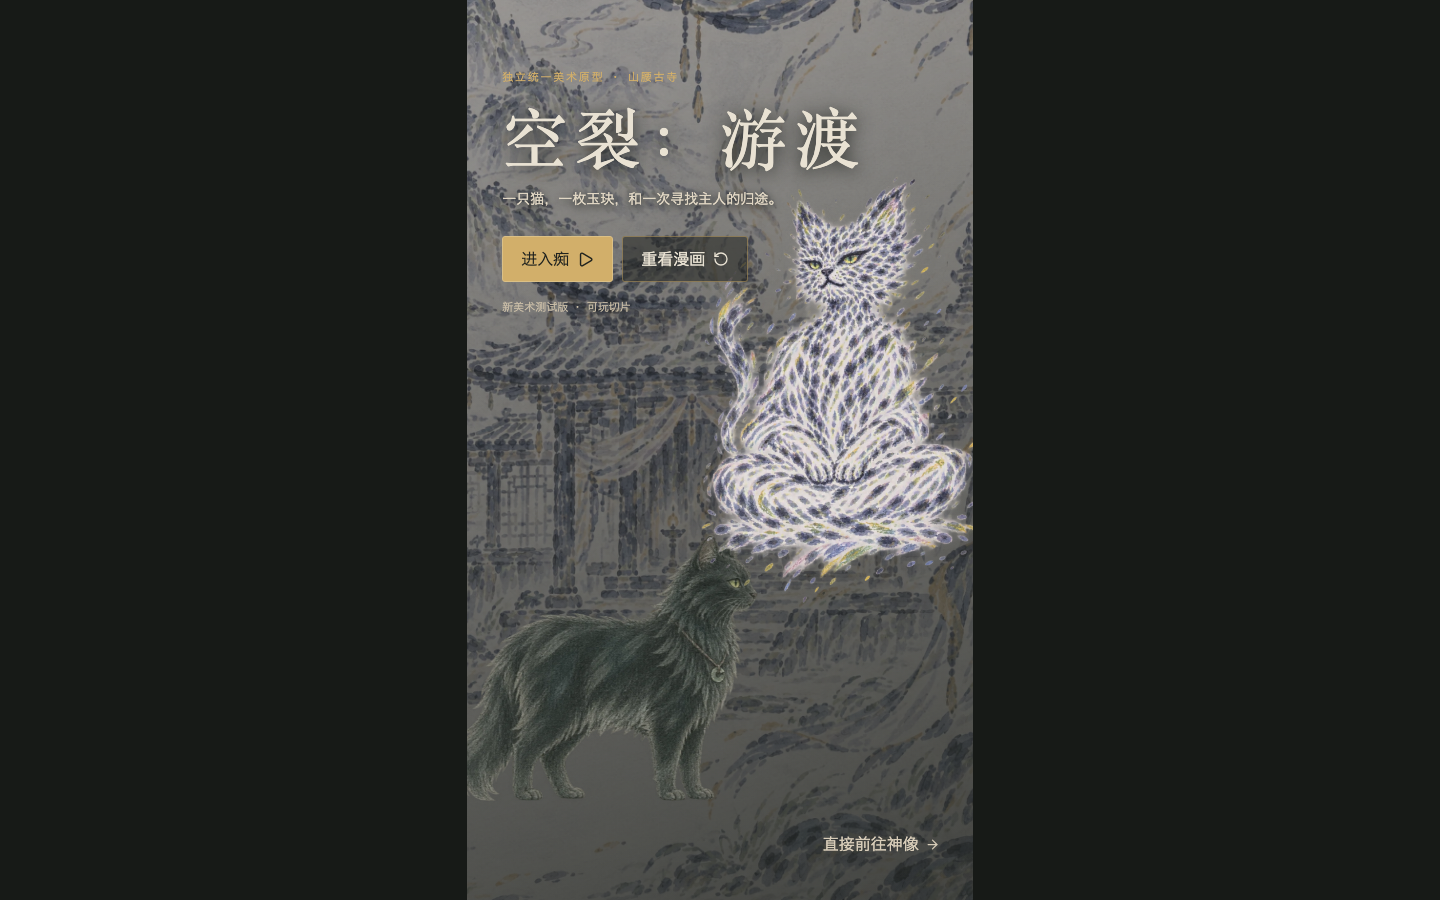
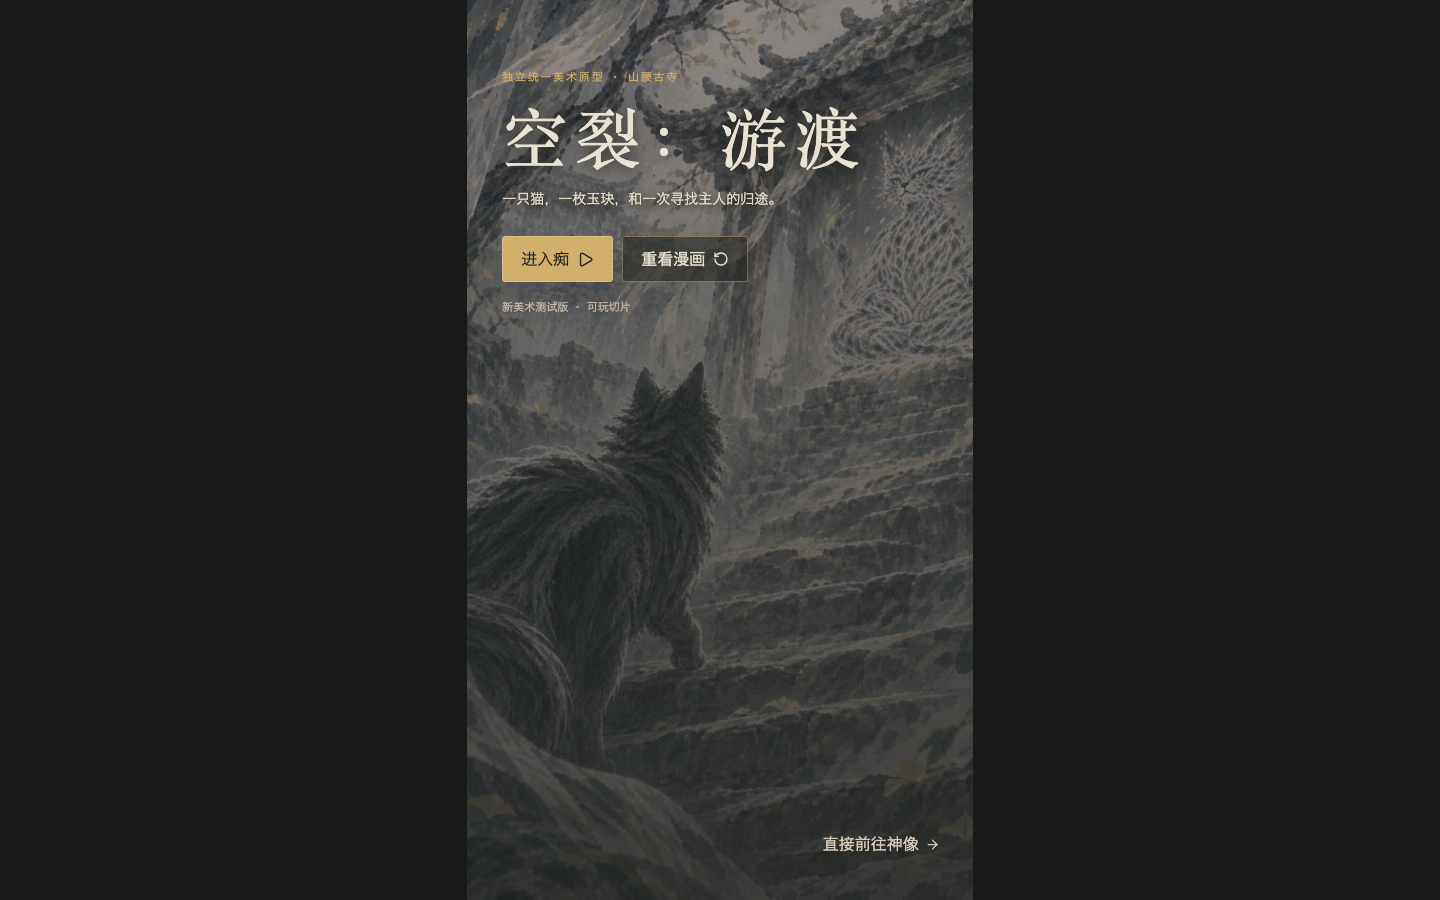
feat: add cinematic scenes and clear chi onboarding

Changed region(s): [[0.3125, 0.0, 0.6875, 1.0], [0.5938, 0.9956, 0.6562, 1.0]]

diff --git a/app/src/art-reboot/styles.css b/app/src/art-reboot/styles.css
@@ -11,7 +11,7 @@ button:focus-visible { outline: 2px solid #d2af6a; outline-offset: 3px; }
 .reboot-text-link { display: inline-flex; align-items: center; gap: 6px; padding: 8px; color: #d8cdb9; background: transparent; border: 0; cursor: pointer; }
 
 .reboot-title { position: relative; width: min(100vw, calc(100dvh * 9 / 16)); height: min(100dvh, calc(100vw * 16 / 9)); overflow: hidden; isolation: isolate; background: #5d665f; }
-.reboot-title-scene { position: absolute; inset: -4%; z-index: -1; background: url('/assets/art-reboot/temple.webp') center / cover; filter: saturate(.78) brightness(.68); animation: reboot-scene-drift 18s steps(4, end) infinite alternate; }
+.reboot-title-scene { position: absolute; inset: -4%; z-index: -1; width: 108%; height: 108%; object-fit: cover; filter: saturate(.78) brightness(.68); animation: reboot-scene-drift 18s steps(4, end) infinite alternate; }
 .reboot-title::after { content: ''; position: absolute; inset: 0; z-index: -1; background: linear-gradient(165deg, rgba(32, 35, 31, .08), rgba(32, 35, 31, .72)); pointer-events: none; }
 .reboot-title-cat { position: absolute; left: -4%; bottom: -2%; width: 64%; pointer-events: none; animation: reboot-breathe 5s steps(3, end) infinite; }
 .reboot-title-cat img, .reboot-title-statue img { display: block; width: 100%; }
@@ -57,7 +57,7 @@ button:focus-visible { outline: 2px solid #d2af6a; outline-offset: 3px; }
 
 .reboot-chi { position: relative; width: min(100vw, calc(100dvh * 9 / 16)); height: min(100dvh, calc(100vw * 16 / 9)); overflow: hidden; isolation: isolate; background: #667068; }
 .reboot-chi-scene, .reboot-chi-atmosphere { position: absolute; inset: 0; pointer-events: none; }
-.reboot-chi-scene { inset: -4%; background: url('/assets/art-reboot/temple.webp') center / cover; filter: grayscale(.82) brightness(.72); transition: filter 1.2s ease; animation: reboot-scene-drift 20s steps(4, end) infinite alternate; }
+.reboot-chi-scene { inset: -4%; width: 108%; height: 108%; object-fit: cover; filter: grayscale(.82) brightness(.72); transition: filter 1.2s ease; animation: reboot-scene-drift 20s steps(4, end) infinite alternate; }
 .reboot-phase-inner .reboot-chi-scene, .reboot-phase-complete .reboot-chi-scene { filter: grayscale(.18) saturate(.88) brightness(.7); }
 .reboot-phase-complete .reboot-chi-scene { filter: grayscale(0) saturate(1.05) brightness(.8); }
 .reboot-chi-atmosphere { z-index: 1; background: linear-gradient(160deg, rgba(233, 226, 211, .04), rgba(32, 35, 31, .14) 48%, rgba(32, 35, 31, .62)); }
@@ -71,11 +71,12 @@ button:focus-visible { outline: 2px solid #d2af6a; outline-offset: 3px; }
 .reboot-ui-wide { width: 68px; }
 .reboot-you { position: absolute; z-index: 4; left: -4%; bottom: -3%; width: 63%; pointer-events: none; animation: reboot-breathe 5s steps(3, end) infinite; }
 .reboot-you img { display: block; width: 100%; }
-.reboot-statue { position: absolute; z-index: 6; right: -4%; top: 17%; width: 62%; padding: 0; background: transparent; border: 0; cursor: pointer; animation: reboot-statue-breathe 5.5s steps(3, end) infinite; }
-.reboot-statue img { display: block; width: 100%; filter: drop-shadow(0 0 16px rgba(210, 175, 106, .2)); }
-.reboot-statue span { position: absolute; right: 15%; bottom: 5%; padding: 6px 9px; color: #e9e2d3; background: rgba(32, 35, 31, .76); border-left: 2px solid #d2af6a; font-size: 11px; letter-spacing: .1em; }
+.reboot-statue { position: absolute; z-index: 6; right: 3%; top: 19%; width: 42%; height: 36%; padding: 0; background: transparent; border: 0; cursor: pointer; }
+.reboot-statue::before { content: ''; position: absolute; inset: 12% 8% 18%; border: 1px solid rgba(210, 175, 106, .58); border-radius: 48% 52% 44% 56%; animation: reboot-statue-ring 2.8s steps(4, end) infinite; }
+.reboot-statue span { position: absolute; right: 12%; bottom: 2%; padding: 6px 9px; color: #e9e2d3; background: rgba(32, 35, 31, .76); border-left: 2px solid #d2af6a; font-size: 11px; letter-spacing: .1em; }
+@keyframes reboot-statue-ring { from { opacity: .72; transform: scale(.88); } to { opacity: 0; transform: scale(1.16); } }
 .reboot-transition { position: absolute; z-index: 15; left: 50%; top: 31%; display: grid; justify-items: center; transform: translateX(-50%); }
-.reboot-transition img { width: 130px; animation: reboot-transition-statue 1.25s steps(3, end) both; }
+.reboot-transition i { width: 92px; height: 92px; border: 1px solid #d2af6a; border-radius: 48% 52% 46% 54%; box-shadow: 0 0 22px rgba(210, 175, 106, .28); animation: reboot-transition-statue 1.25s steps(3, end) both; }
 .reboot-transition span { margin-top: 12px; font: 500 18px 'Songti SC', serif; letter-spacing: .18em; }
 @keyframes reboot-transition-statue { from { opacity: 0; transform: scale(.7); filter: blur(8px); } to { opacity: 1; transform: scale(1); filter: blur(0); } }
 .reboot-chi .puzzle-canvas { position: absolute; inset: 0; z-index: 6; width: 100%; height: 100%; touch-action: none; cursor: crosshair; }
@@ -84,7 +85,11 @@ button:focus-visible { outline: 2px solid #d2af6a; outline-offset: 3px; }
 .reboot-lamp img { display: block; width: 100%; }
 .reboot-lamp.is-out { opacity: .13; filter: grayscale(1); pointer-events: none; }
 @keyframes reboot-lamp-sway { 50% { margin-top: -7px; transform: rotate(1.5deg); } }
-.reboot-progress { position: absolute; z-index: 12; left: 4%; top: 15%; display: flex; align-items: center; gap: 7px; color: #e9e2d3; font-size: 11px; }
+.reboot-objective { position: absolute; z-index: 12; left: 4%; top: 12%; max-width: 70%; padding: 7px 10px; background: rgba(32, 35, 31, .58); border-left: 2px solid #d2af6a; }
+.reboot-objective > span { color: #d2af6a; font-size: 10px; letter-spacing: .16em; }
+.reboot-objective p { margin: 3px 0 0; color: #e9e2d3; font-size: 12px; line-height: 1.5; }
+.reboot-objective small { display: block; margin-top: 4px; color: #c9bdab; font-size: 10px; }
+.reboot-progress { position: absolute; z-index: 12; left: 4%; top: 21%; display: flex; align-items: center; gap: 7px; color: #e9e2d3; font-size: 11px; }
 .reboot-progress i { width: 8px; height: 8px; border: 1px solid #d2af6a; border-radius: 50%; }
 .reboot-progress i.is-found { background: #d2af6a; box-shadow: 0 0 8px rgba(210, 175, 106, .75); }
 .reboot-progress strong { color: #d2af6a; font-weight: 400; }

diff --git a/app/src/art-reboot/RebootComic.tsx b/app/src/art-reboot/RebootComic.tsx
@@ -4,10 +4,10 @@ import { ArrowRight, SkipForward } from 'lucide-react'
 type Props = { onComplete: () => void }
 
 const PANELS = [
-  { kicker: '01 · 空裂之后', text: '城市还在，颜色却先离开了。' },
-  { kicker: '02 · 出城', text: '游只带上一枚玉玦。' },
-  { kicker: '03 · 归途', text: '它要回卦山，寻找主人。' },
-  { kicker: '04 · 入山', text: '山把回答藏起来了。' },
+  { kicker: '01 · 世界', text: '空裂之后，城市与人都被情绪隔开。' },
+  { kicker: '02 · 游', text: '主人说不出的情绪，留在了这只猫身上。' },
+  { kicker: '03 · 归途', text: '游沿着玉玦的回应回卦山，寻找主人。' },
+  { kicker: '04 · 痴', text: '先看清三个“痴”，让古寺复色，才能继续向前。' },
 ]
 
 export default function RebootComic({ onComplete }: Props) {
@@ -25,10 +25,7 @@ export default function RebootComic({ onComplete }: Props) {
             return (
               <article key={panel.kicker} className={`comic-panel comic-panel-${index} ${visible ? 'is-visible' : ''}`} aria-hidden={!visible}>
                 <div className="comic-panel-art">
-                  {index < 3 ? <img className="comic-city" src="./assets/art-reboot/city.webp" alt="位面城与出城道路" /> : <img className="comic-temple" src="./assets/art-reboot/temple.webp" alt="山腰古寺" />}
-                  {index === 1 && <img className="comic-you" src="./assets/art-reboot/you.webp" alt="自然猫游" />}
-                  {index === 2 && <div className="comic-route"><i /><span>位面城</span><span>卦山</span></div>}
-                  {index === 3 && <img className="comic-statue" src="./assets/art-reboot/statue.webp" alt="猫神像" />}
+                  <img className={`comic-shot comic-shot-${index}`} src={`./assets/art-reboot/cinematic/comic-0${index + 1}.webp`} alt={panel.text} />
                 </div>
                 <div className="comic-caption"><span>{panel.kicker}</span><p>{panel.text}</p></div>
               </article>

diff --git a/app/src/art-reboot/ArtRebootApp.tsx b/app/src/art-reboot/ArtRebootApp.tsx
@@ -14,9 +14,7 @@ export default function ArtRebootApp() {
   return (
     <main className="reboot-shell">
       <section className="reboot-title" aria-label="空裂游渡开始界面">
-        <div className="reboot-title-scene" />
-        <div className="reboot-title-cat"><img src="./assets/art-reboot/you.webp" alt="颈挂玉玦的自然猫游" /></div>
-        <div className="reboot-title-statue"><img src="./assets/art-reboot/statue.webp" alt="古老猫神像" /></div>
+        <img className="reboot-title-scene" src="./assets/art-reboot/cinematic/scene-outer.webp" alt="游在低位斜侧的石阶上望向神龛中的猫神像" />
         <div className="reboot-title-copy">
           <span className="reboot-kicker">独立统一美术原型 · 山腰古寺</span>
           <h1>空裂：游渡</h1>

diff --git a/tools/prepare_art_reboot_assets.py b/tools/prepare_art_reboot_assets.py
@@ -46,6 +46,18 @@ for row, suffix in enumerate(['outer', 'inner']):
         icon.save(target, 'WEBP', quality=90, method=6)
         manifest['assets'][f'ui-{name}-{suffix}'] = {'source': 'ui_sheet_v1', 'cell': [column, row], 'outputSize': icon.size, 'bytes': target.stat().st_size}
 
+cinematic_out = OUT / 'cinematic'
+cinematic_out.mkdir(exist_ok=True)
+for key in ['scene-outer', 'scene-inner', 'scene-complete', 'comic-01', 'comic-02', 'comic-03', 'comic-04']:
+    source = CANDIDATES / 'comparisons' / f'gpt-{key}-ink-v1.png'
+    if not source.exists():
+        raise FileNotFoundError(source)
+    image = Image.open(source).convert('RGBA')
+    image.thumbnail((1920, 1920), Image.Resampling.LANCZOS)
+    target = cinematic_out / f'{key}.webp'
+    image.save(target, 'WEBP', quality=88, method=6)
+    manifest['assets'][key] = {'source': source.name, 'outputSize': image.size, 'bytes': target.stat().st_size}
+
 manifest_path = OUT.parent.parent.parent / 'art-reboot-manifest.json'
 manifest_path.write_text(json.dumps(manifest, ensure_ascii=False, indent=2), encoding='utf-8')
 print(json.dumps({'exported': len(manifest['assets']), 'out': str(OUT)}, ensure_ascii=False))

diff --git a/docs/ART_REBOOT.md b/docs/ART_REBOOT.md
@@ -17,12 +17,15 @@
 - `yin.webp`：无玉玦、抽象猫神像式的墨影引导。
 - `fen.webp`：由多色墨点与动物情绪碎片组成的忿，保留受伤与防备。
 
-旧 `03 Art` 仅作风格参考，没有继续自动抠碎点原图。候选图由既定 OpenRouter GPT Image 管线生成，脚本 `tools/prepare_art_reboot_assets.py` 只做压缩、居中、裁格与本地副本整理，不再修改原始美术。当前两批共 16 张候选图元数据记录成本合计约 $1.026，未做无节制批量生成。管线对比与选择依据见 `docs/PIPELINE_COMPARISON.md`，资产统一整理到 `03 Art/AI生成资产/`。
+旧 `03 Art` 仅作风格参考，没有继续自动抠碎点原图。候选图由既定 OpenRouter GPT Image 管线生成，脚本 `tools/prepare_art_reboot_assets.py` 只做压缩、居中、裁格与本地副本整理，不再修改原始美术。当前三批共 23 张候选图元数据记录成本合计约 $1.412，未做无节制批量生成。管线对比与选择依据见 `docs/PIPELINE_COMPARISON.md`，资产统一整理到 `03 Art/AI生成资产/`。
 
 ## 可玩实现
 
 - `app/art-reboot.html` 与 `app/src/art-reboot/` 是独立入口，不依赖旧标题页。
+- 四格漫画使用独立原画：仰视城门、出城侧写、旅途俯视、入山特写，不再复用同一城市图裁切。
+- `cinematic/scene-outer.webp`：游在低机位石阶上望向神像；`scene-inner.webp`：斜俯视灯海；`scene-complete.webp`：复色近景。角色、神像与道具直接画在场景中，热点层不再贴大 sprite。
 - 漫画逐格揭示，格子内有角色进入、路线与场景动效；演出采用 2D／2.5D 平面分层与 `steps()` 有限动画节奏，不使用连续 3D 推拉。
+- 开场明确“找齐三个痴，让古寺复色并继续寻找主人”，进入后显示“移动光圈，找到痴后点一下”；完成按钮为“继续寻找主人”。
 - 痴保留探灯找三个目标；煤油灯可识别为幻境，忿以两次场景侵入增加灯海。
 - 桌面与触屏共用同一 9:16 contain 舞台，支持减少动态效果。
 

diff --git a/docs/ASSETS.md b/docs/ASSETS.md
@@ -2,7 +2,7 @@
 
 ## art-reboot-kimi 独立资产
 
-- 独立原型使用 `app/public/assets/art-reboot/` 中全新生成的统一美术，不使用旧图抠片。
+- 独立原型使用 `app/public/assets/art-reboot/` 中全新生成的统一美术，不使用旧图抠片；`cinematic/` 另存四格独立漫画与三种内含角色的完整场景原画。
 - `tools/prepare_art_reboot_assets.py` 以 `YOUDU_ART_ROOT` 指向 `03 Art`，从 `AI生成资产/` 中的既定候选图生成本地 WebP 与 UI 单元，记录个人来源的 `app/art-reboot-manifest.json` 已忽略公开。
 - 完整状态与验收见 `docs/ART_REBOOT.md`。
 

diff --git a/docs/QA.md b/docs/QA.md
@@ -6,7 +6,8 @@
 - 自然猫、一体玉玦、完整神像、手绘 UI、隐、忿与煤油灯全部使用新生成的统一资产。
 - 三个痴桌面点击完成，375px 真实触摸可收集。
 - 忿在场景中可见并增加灯海，幻境灯可识别。
-- 控制台错误 0，失败资源 0；报告与截图：`qa/art-reboot/`。
+- 四格独立分镜与完整场景原画加载成功；目标与操作提示经浏览器断言检查。
+- 控制台错误 0，失败资源 0；报告与截图：`qa/art-reboot/`，其中 `comic-1.png` 至 `comic-4.png` 为四格独立原画。
 
 ## V1：出城与 Pages 子路径候选版
 
